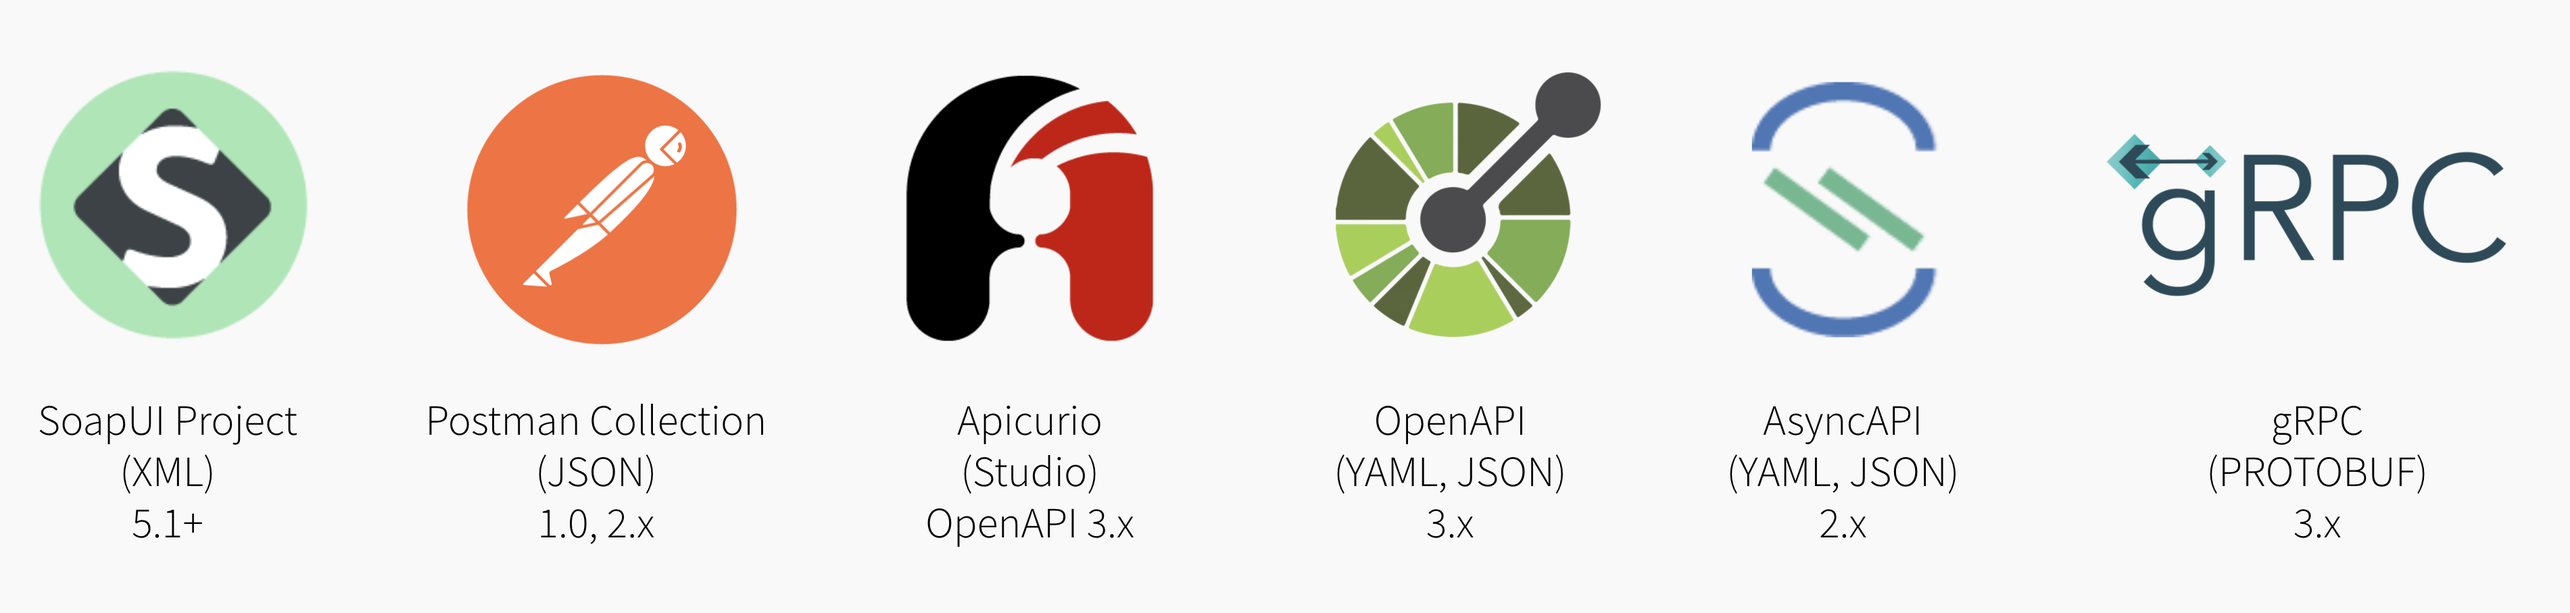
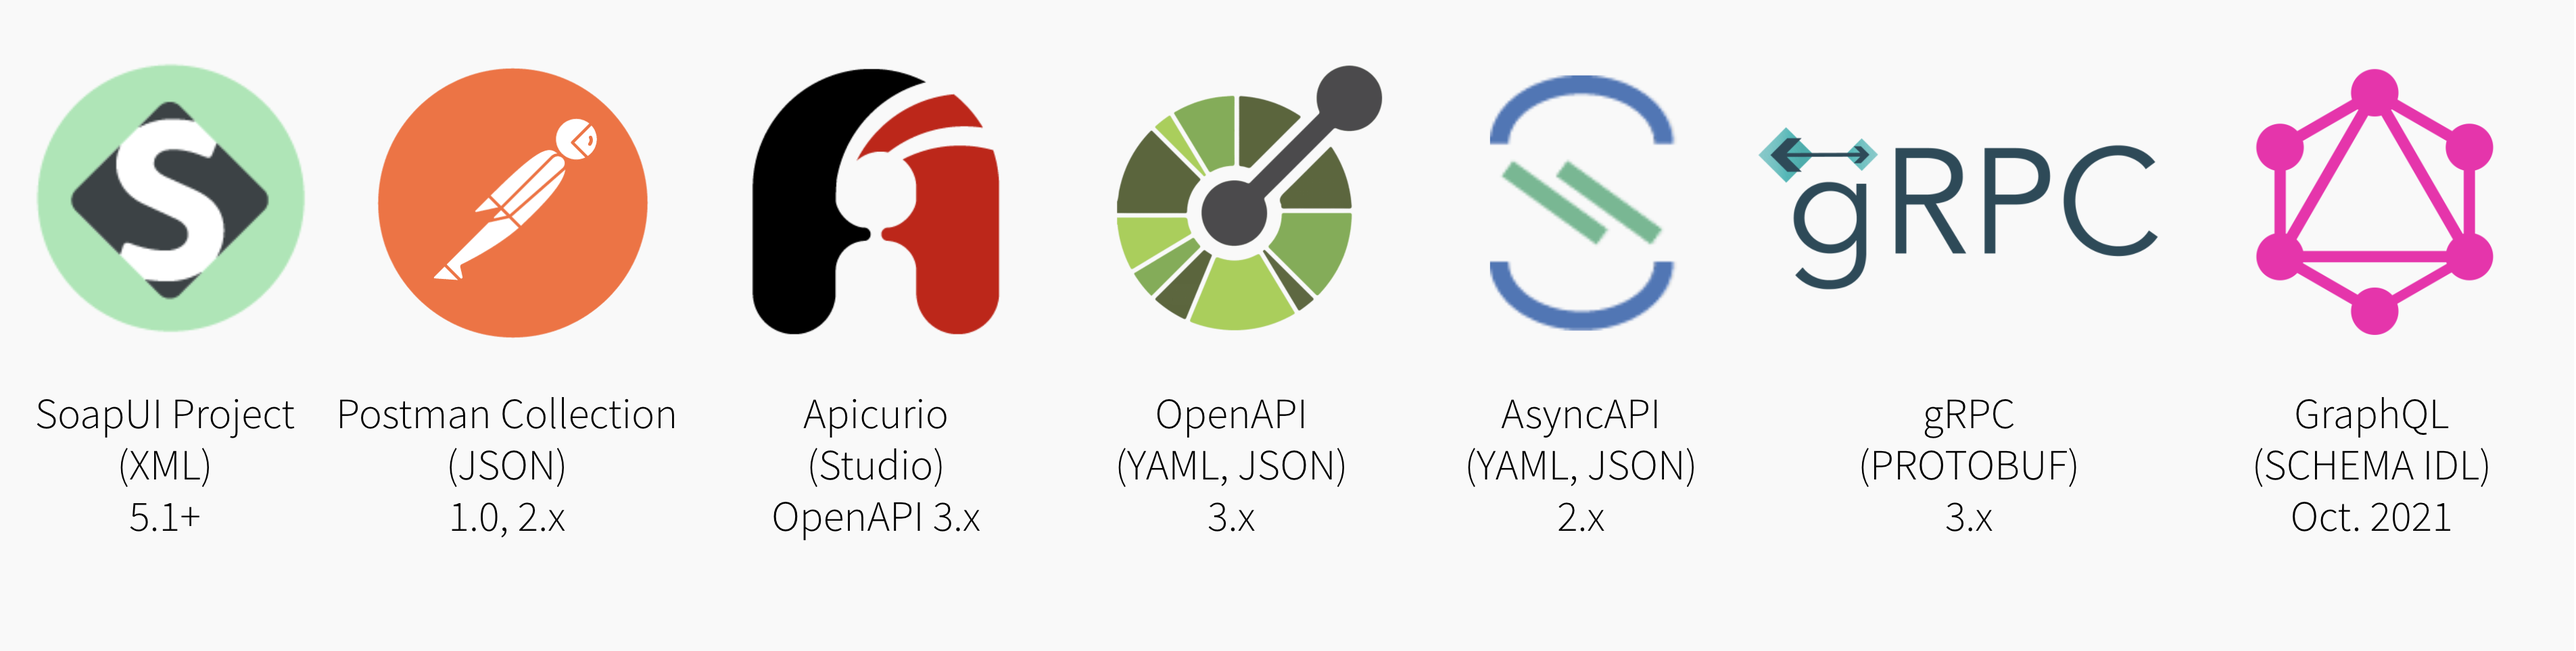
microcks/microcks#401 Launch GraphQL blog and doc

diff --git a/themes/microcks/layouts/partials/hero.html b/themes/microcks/layouts/partials/hero.html
@@ -1,7 +1,7 @@
 <header class="home-header-bg ph4 tc" role="banner">
   
   <div class="mr20p-ns pb4-xs">
-    <img class="microcks-mocks-img" style="margin-right: -15px;" src="/images/microcks-mocks-new.png" alt="Microcks mocks">
+    <img class="microcks-mocks-img" style="margin-right: -15px;" src="/images/microcks-mocks-full.png" alt="Microcks mocks">
   </div>
   <!--
   <span class="absolute pr4 mt7-m mt7-l right-0 top-0 dn-xs">

diff --git a/content/blog/graphql-features-what-to-expect.md b/content/blog/graphql-features-what-to-expect.md
@@ -1,0 +1,119 @@
+---
+title: "GraphQL features in Microcks: what to expect?"
+layout: post
+date: 2022-01-07
+publishdate: 2022-01-07
+lastmod: 2022-01-07
+image: "/images/blog/graphql-features.png"
+categories: [blog]
+author: "Laurent Broudoux"
+author_title: "MicrocksIO founder"
+author_image: "/images/blog/bio/lbroudoux.jpeg"
+author_twitter: "lbroudoux"
+---
+
+
+In various 2021 reports, [GraphQL](https://graphql.org) has been spotted as one of the most exciting technologies to consider for APIs. It is a query language and a runtime for fulfilling those queries with your existing data. GraphQL provides a complete and understandable description of the data in your API, gives clients the power to ask for exactly what they need and nothing more, makes it easier to evolve APIs over time, and enables powerful developer tools.
+
+At Microcks, we also identified the importance of GraphQL and thought that’s a perfect fit for Microcks model and features 😉 This post is a walkthrough of the coming GraphQL features in Microcks `1.5.0` to be released in a few weeks. It will give you insight on the GraphQL feature set we will support and how it works underneath. 
+
+![graphql-features](/images/blog/graphql-features.png)
+
+You’ll see that GraphQL is no different from the other API standards we are supporting in Microcks like [OpenAPI](https://openapi.org), [AsyncAPI](https://asyncapi.org) and [gRPC](https://grpc.io). We stick to our mantra of providing a homogeneous approach whatever the technology stack, embracing diversity. But GraphQL flexibility from the consumer point of view was another opportunity to demonstrate the smartness of our engine and hence deserved this blog post.
+
+Before diving into the mocking and testing features, let’s just have a quick review at what you’ll need to use them on Microcks.
+
+## What you’ll need?
+
+In respect of the **contract-first** approach we’re big supporters of and rely on, you’ll first need a GraphQL Schema - expressed using the [Schema Definition Language](https://graphql.org/learn/schema/) - to import operations definition of your API into Microcks.
+
+As a GraphQL schema doesn’t support the notion of examples - contrary to OpenAPI and AsyncAPI specifications - you’ll rely on a [Postman Collection](https://www.postman.com/collection/) that holds your mock dataset as examples.
+
+Thanks to the [multi-artifacts support](https://microcks.io/documentation/using/importers/#multi-artifacts-support) feature we introduced in release `1.3.0`, Microcks will be able to import both resources as **primary** and **secondary** artifacts to merge information and build a consolidated view of your GraphQL API.
+
+![graphql-artifacts](/images/blog/graphql-artifacts.png)
+
+If you need some illustration for better understanding, feel free to check out our [GtiHub repository](https://github.com/microcks/microcks/tree/1.5.x/samples), focusing on the `films*` resources for our `Movie Graph API` - version `1.0` detailed thereafter.
+
+## Mocking GraphQL API features
+
+After having defined and imported required artifacts, let’s have a tour of different features using our `Movie Graph API` - version `1.0` sample.
+
+### Introspection Queries
+
+It's often useful to ask a GraphQL schema for information about what queries it supports. For that, GraphQL has specified the [introspection system](https://graphql.org/learn/introspection/). A system we implemented in Microcks! So once you have the mock endpoint URL of your API, you can use smart GUI clients like [Insomnia](https://insomnia.rest) to start playing around with your API and discover queries and data structure.
+
+![graphql-introspection](/images/blog/graphql-introspection.png)
+
+### Field Selection and fragments
+
+At its very core, GraphQL query is about [selecting a set of fields](https://graphql.org/learn/queries/#fields) on objects. That’s obviously a feature we support in Microcks. You can issue different requests matching the same response but with different field selections : Microcks will apply filtering on response content to adapt it to the specific set required by the client.
+
+Here below in the capture, we redefined the set of required fields and see that the response has been filtered to fit these fields.
+
+![graphql-selection](/images/blog/graphql-selection.png)
+
+Fields selection can also be expressed using [fragments](https://graphql.org/learn/queries/#fragments) that will centralize selection definition. Microcks supports fragment spreads and associated definitions in a transparent way. Fragments are notably very useful for the next feature…
+
+### Multi-queries and aliases
+
+One GraphQL query can embed different queries and selections to invoke on the server side. When using this multi-queries construction, the consumer will also need to define [aliases](https://graphql.org/learn/queries/#aliases) that will be reused by the provider when formatting the aggregated response. This feature is handled by Microcks mocks so that you can combine many operations within one mock invocation like illustrated below:
+
+![graphql-aliases](/images/blog/graphql-aliases.png)
+
+### Arguments and variables
+
+GraphQL has the ability to pass arguments to queries or mutations. In Microcks as in the specification, these arguments can be passed either inline or using a variable notation that references a query variables element defined as JSON alongside the query.
+
+When you define a GraphQL operation that uses only GraphQL [scalar types](https://graphql.org/learn/schema/#scalar-types), Microcks automatically uses a new `QUERY_ARGS` dispatcher that analyses arguments values to match the corresponding response in your sample. This allows Microcks to have smart mock behavior to implement common queries and mutations like `findFilmById` or `findFilmByRating` or `addStartToFilmWithId` and so on.
+
+### Mutation with custom type
+
+You can also choose to use [custom types](https://graphql.org/learn/schema/#object-types-and-fields) as query or mutation arguments! Microcks will not be able to automatically infer dispatching rules in that case unfortunately. But it will allow you to define your own smart dispatcher simply, using the [`JSON BODY`](https://microcks.io/documentation/using/advanced/dispatching/#json-body-dispatcher) dispatcher. With this one you’ll be able to easily define an evaluation rule on the query variables JSON to return the response to the client.
+
+Here below you can see an example of query variables JSON that will be evaluated to return the correct Film to add review to:
+
+![graphql-variables](/images/blog/graphql-variables.png)
+
+### Advanced features
+
+We already got a bunch of exciting features but it’s worth noting that some other features of Microcks are obviously still available for GraphQL mocking as well!
+
+We can mention here:
+
+* [Templating expressions and functions](https://microcks.io/documentation/using/advanced/templates/) - so that you can include dynamic or random content into your mocks responses using notations like `{{ guid() }}` or `{{ request.body/filmId }}`,
+* [`FALLBACK`](https://microcks.io/documentation/using/advanced/dispatching/#fallback-dispatcher) dispatcher if you want some complex `try-catch` behavior in your matching rules when dispatching to a response,
+* `SCRIPT` dispatcher that offers you all the power of [Groovy](https://groovy-lang.org/) scripting to request dispatching (documentation to come soon).
+
+
+## Testing GraphQL API features
+
+Besides the mocking features in Microcks, there’s always the second side of the coin: the testing features!
+
+Testing a GraphQL API in Microcks means that we’ll reuse the different unitary operations of your API against a Test Endpoint that represents the backend implementation of this API. For each and every example in your API, Microcks will invoke the backend and record the exchanged request and responses. Request is recorded using the [HTTP POST representation](https://graphql.org/learn/serving-over-http/#post-request) of a GraphQL query ; response is recorded as is. After this recording step, Microcks will finally perform a validation step to check that returned response is conforming to the GraphQL Schema defining your API. This will allow to mark the test as passed ✅ or failed ❌.
+
+![graphql-test](/images/blog/graphql-test.png)
+
+As usual with other API technologies, tests in Microcks can be launched through the UI, the [API](https://microcks.io/documentation/automating/api/), [Jenkins Plugin](https://microcks.io/documentation/automating/jenkins/), [GitHub Action](https://microcks.io/documentation/automating/github-actions/), [Tekton Task](https://microcks.io/documentation/automating/tekton/) or simple [CLI](https://microcks.io/documentation/automating/cli/) for full automation.
+
+For the technical readers, one subtle detail to notice is that in fact a GraphQL Schema does not allow direct validation of a response content. GraphQL Schema is much more like a grammar defining the range of possibilities for a response. In GraphQL, actual response validation can only be done if you precisely know what was requested by the client.
+
+We think we find an elegant solution to this problem when implementing validation in Microcks. As we precisely know the request sent to the tested backend and have the GraphQL Schema at hand, Microcks is dynamically building a new [JSON schema](https://json-schema.org) for each request - merging request information with schema information. This in-memory representation of JSON schema is then used to validate the response from the backend and be sure we’re doing validation as specific as possible. 🥳
+
+## Enthusiastic?
+
+We hope this walkthrough has made you enthusiastic about this new set of features coming in January in Microcks `1.5.0`. The best thing is that you don't have to wait for the release to test them out!
+
+Everything is always present in the `1.5.x` branch of the [GitHub repository](https://github.com/microcks/microcks/tree/1.5.x) and in the `nightly` tagged container image. So starting playing with this new GraphQL support is as simple as this one-liner:
+
+```shell
+$ git clone https://github.com/microcks/microcks.git && cd microcks \
+    && git fetch && git checkout 1.5.x && cd install/docker-compose \
+    && docker-compose up -d
+````
+
+Now just open your browser on [http://localhost:8080](http://localhost:8080) and connect with `admin/microcks123` 🚀
+
+As usual, we’re eager for community feedback: come and discuss on our [Zulip chat](https://microcksio.zulipchat.com/) 🐙
+
+Thanks for reading and supporting us!

diff --git a/content/documentation/using/importers.md b/content/documentation/using/importers.md
@@ -32,7 +32,8 @@ We provide built-in parsers and importers for the following formats:
 * [Apicurio Studio](https://apicurio-studio.readme.io/docs/integrate-microcks-for-mocking-your-api) direct integration when working on OpenAPI 3.x API specifications,
 * [OpenAPI v3.x](http://spec.openapis.org/oas/v3.0.3) files in either YAML or JSON format. See our [documentation](../openapi/) on some conventions you should follow for this specification,
 * [AsyncAPI v2.x](https://www.asyncapi.com/docs/specifications/2.0.0) files in either YAML or JSON format. See our [documentation](../asyncapi/) on some conventions you should follow for this specification,
-* [gRPC / Protocol buffers v3](https://grpc.io/docs/what-is-grpc/introduction/) `.proto`files. See our [documentation](../grpc/) on some conventions you should follow for this specification.
+* [gRPC / Protocol buffers v3](https://grpc.io/docs/what-is-grpc/introduction/) `.proto` files. See our [documentation](../grpc/) on some conventions you should follow for this specification,
+* [GraphQL Schema](https://www.apollographql.com/docs/apollo-server/schema/schema/) `.graphql` files. See our [documentation](../graphql/) on some conventions you should follow for this specification.
 
 
 > People very often ask *"Why isn't the Swagger format - aka OpenApi 2.0 - supported by Microcks?"*. This is because Swagger is incomplete for specifying mocks as it does not allow full specification of examples. Sure, the Swagger spec allows you to illustrate responses with samples but it does not allow you to do so with request or request parameters (whether in path, query or headers). And if some tools - like Swagger UI - seem to compose sample requests, they're only doing this using schema information with random generated values...
